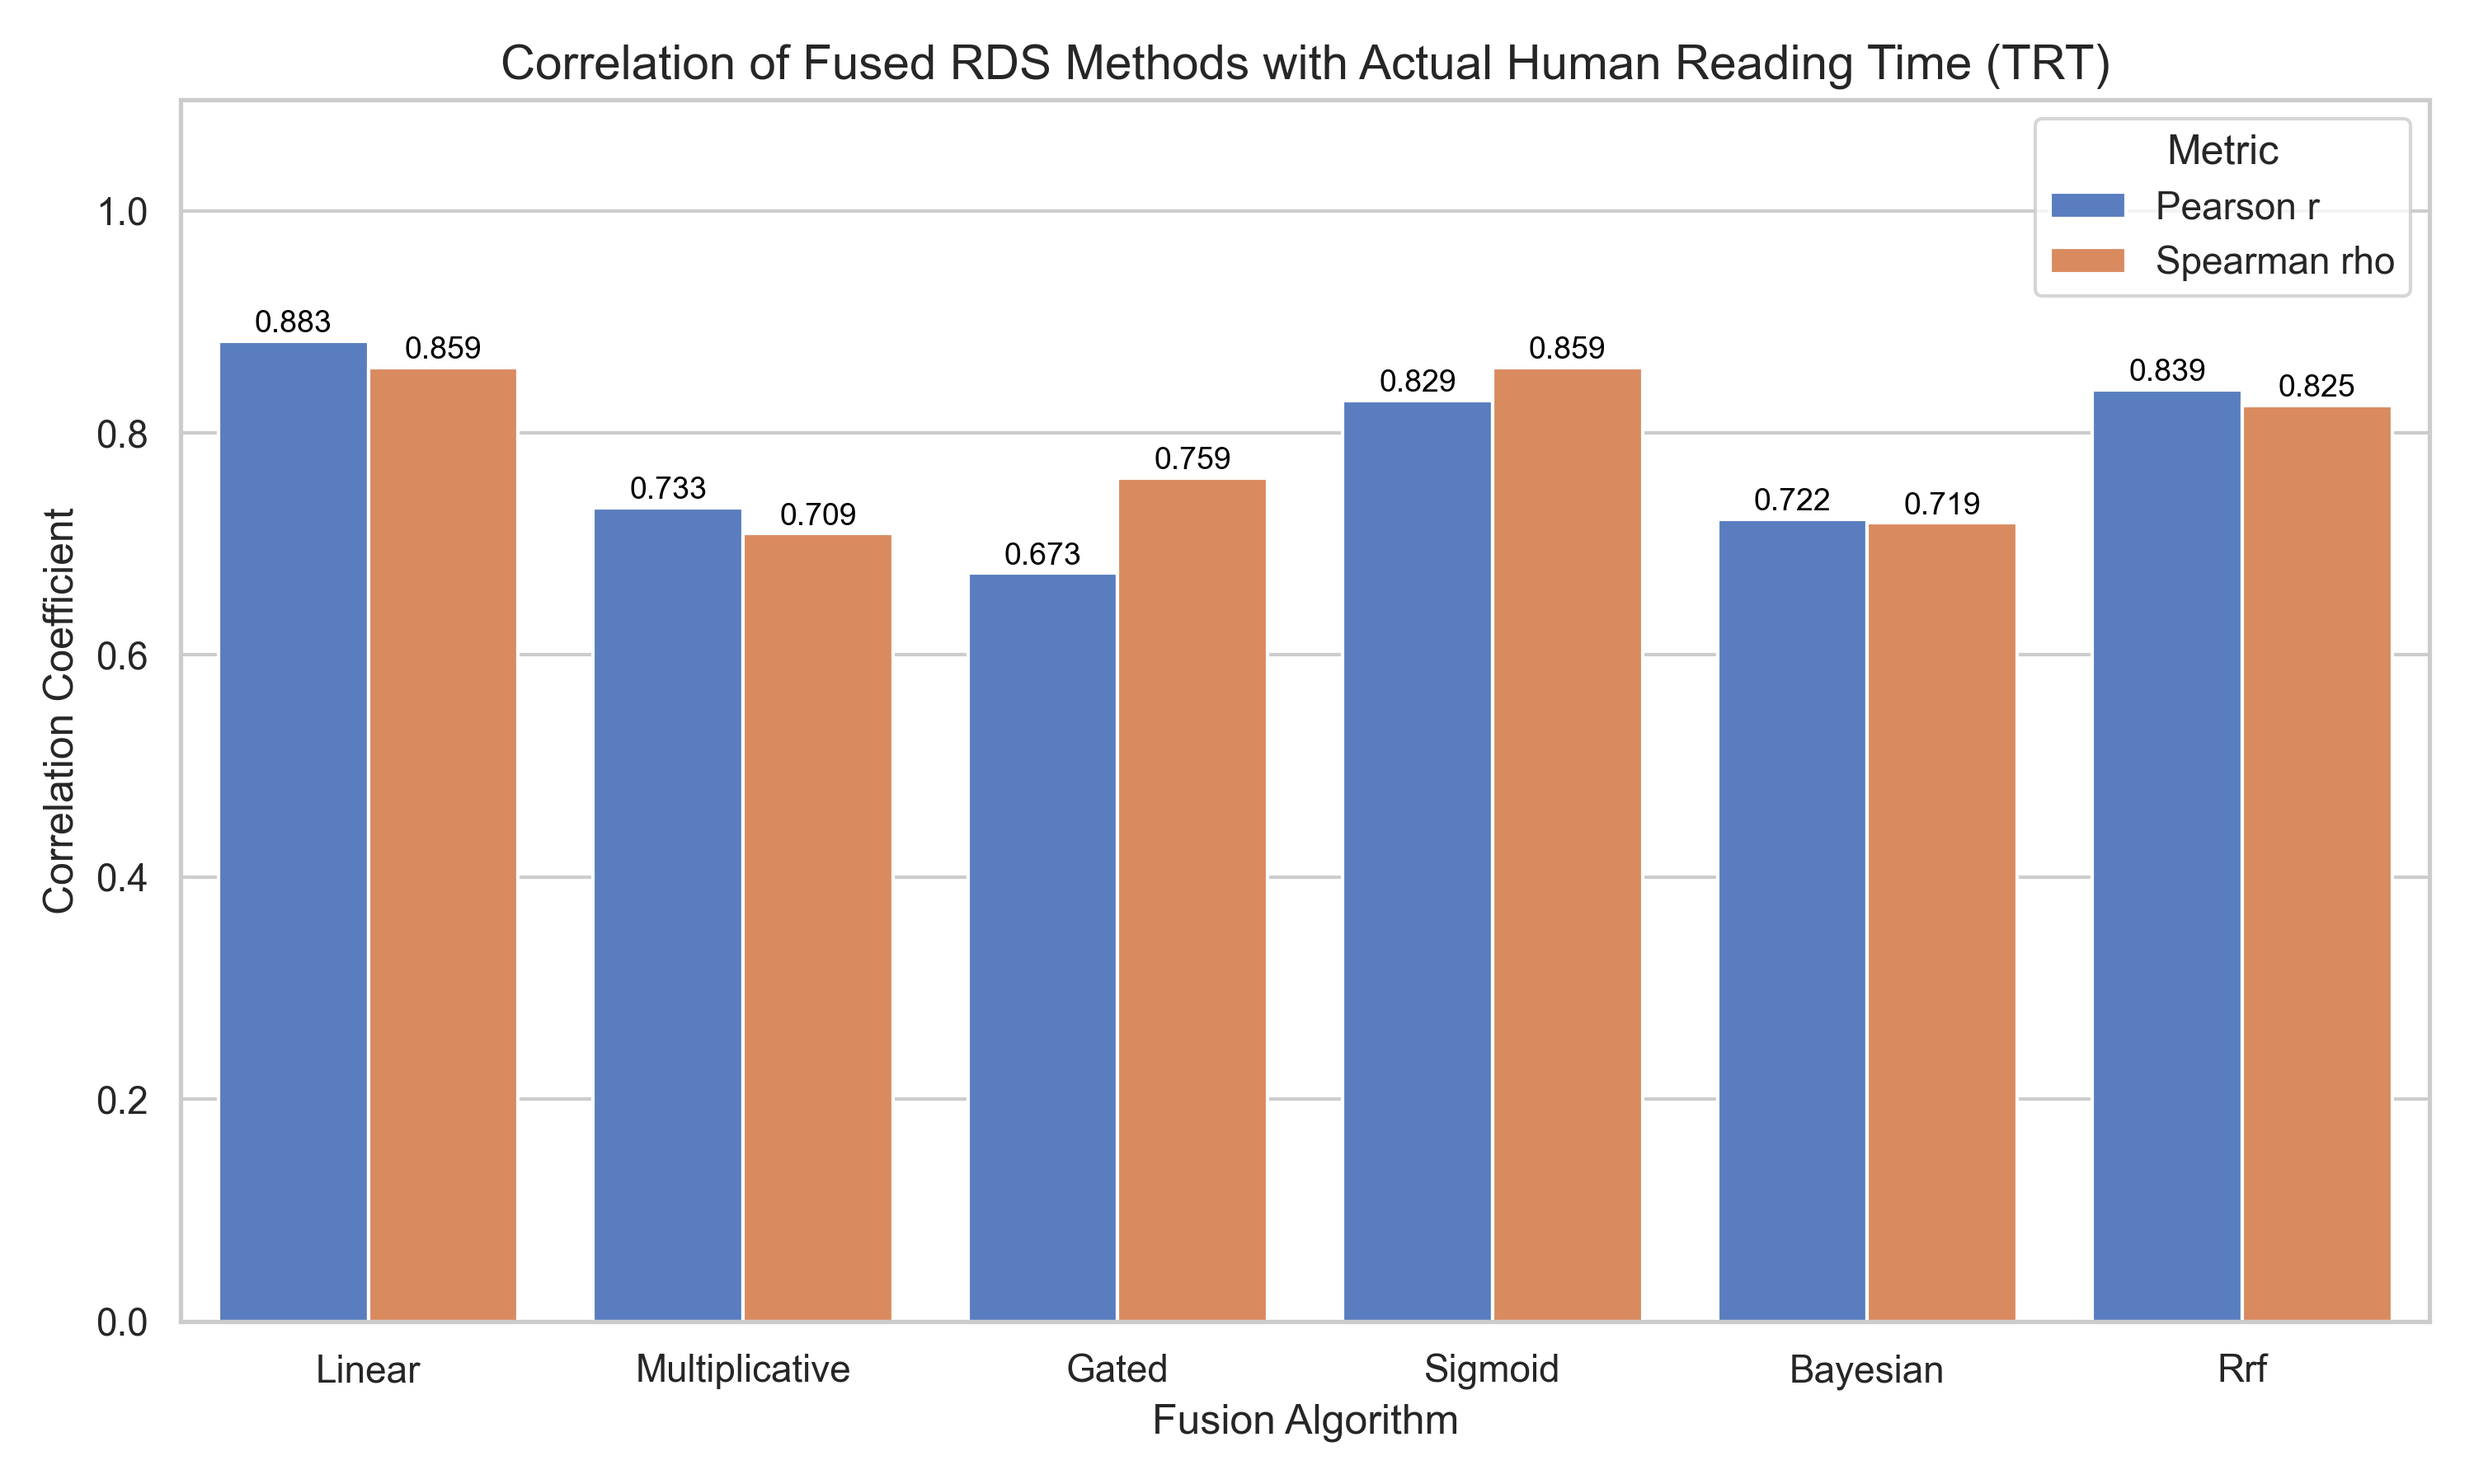
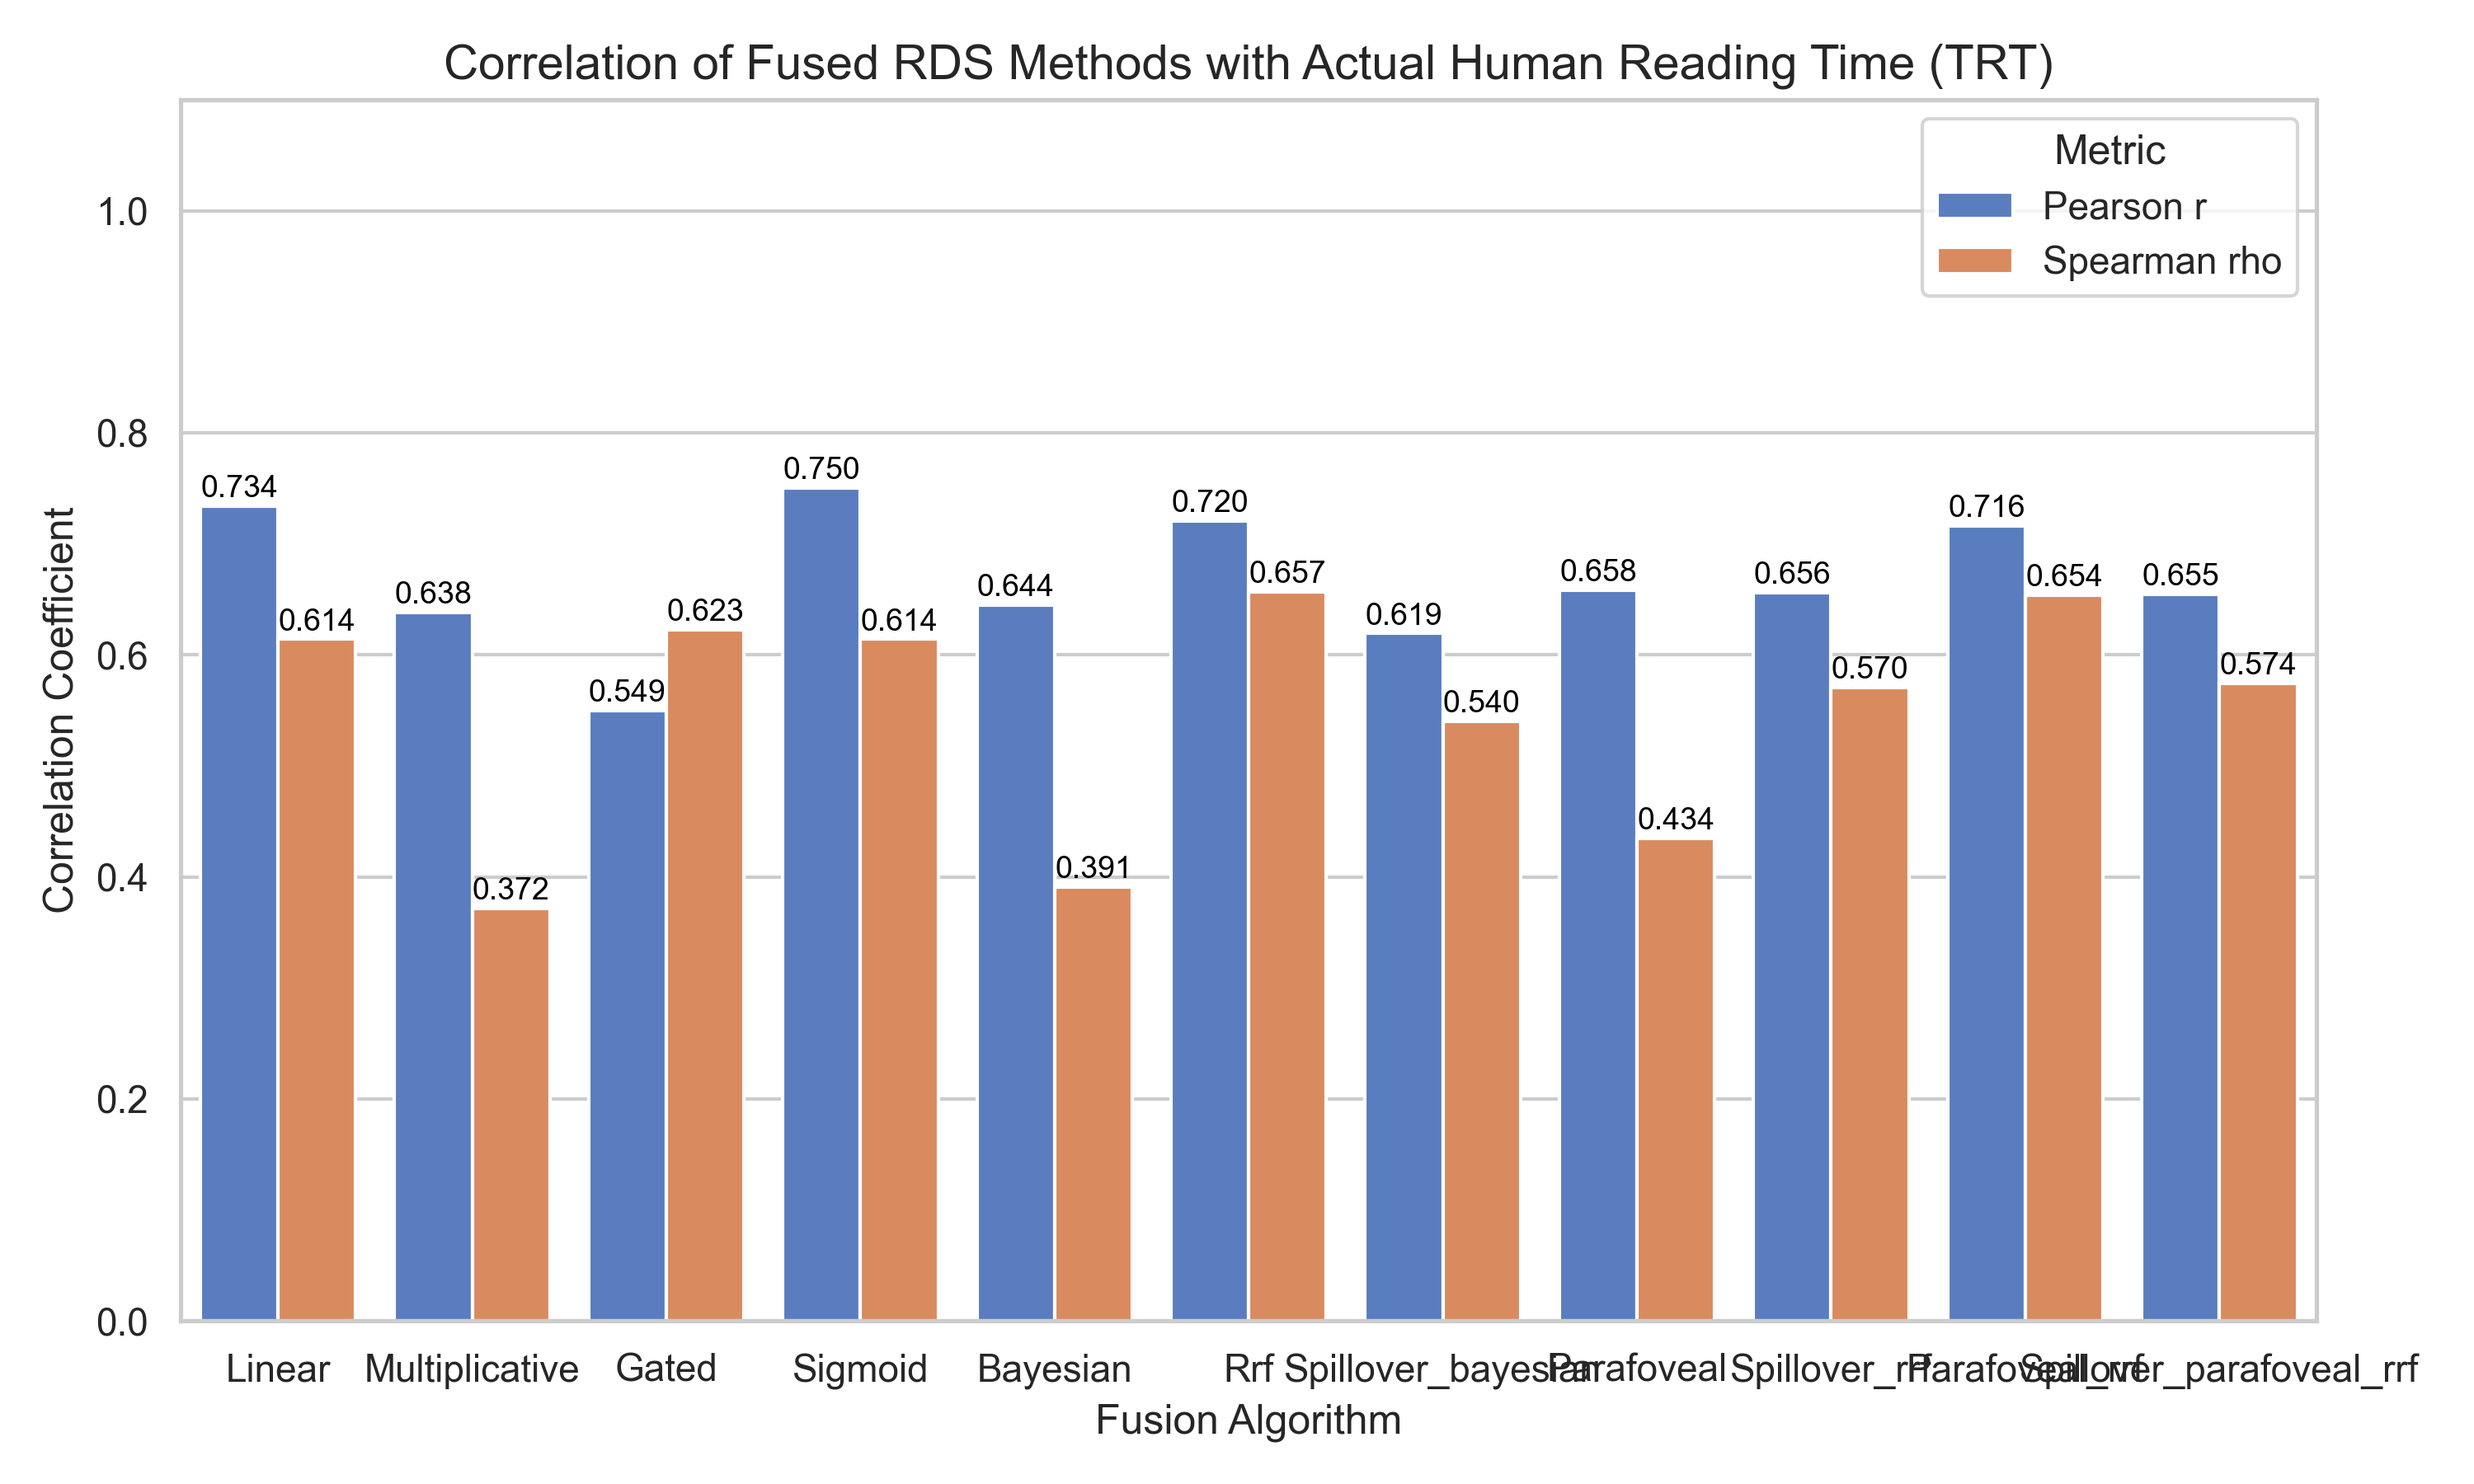
docs: update fusion evaluation plots and markdown reports under output/

diff --git a/output/fusion_experiment_report.md b/output/fusion_experiment_report.md
@@ -12,39 +12,44 @@ Each fusion method was evaluated by computing its Pearson correlation ($r$) and 
 
 | Method | Pearson r | Pearson p-val | Spearman rho | Spearman p-val |
 | --- | --- | --- | --- | --- |
-| Linear | 0.8827 | 2.32e-52 | 0.8587 | 1.45e-46 |
-| Multiplicative | 0.7325 | 1.67e-27 | 0.7091 | 3.89e-25 |
-| Gated | 0.6735 | 5.77e-22 | 0.759 | 1.69e-30 |
-| Sigmoid | 0.8291 | 1.00e-40 | 0.8587 | 1.45e-46 |
-| Bayesian | 0.7224 | 1.89e-26 | 0.7188 | 4.33e-26 |
-| Rrf | 0.839 | 1.51e-42 | 0.8248 | 5.61e-40 |
+| Linear | 0.7341 | 1.11e-27 | 0.614 | 1.55e-17 |
+| Multiplicative | 0.6383 | 3.17e-19 | 0.3716 | 1.79e-06 |
+| Gated | 0.5495 | 1.10e-13 | 0.6228 | 3.95e-18 |
+| Sigmoid | 0.7503 | 1.78e-29 | 0.614 | 1.55e-17 |
+| Bayesian | 0.6445 | 1.10e-19 | 0.3909 | 4.53e-07 |
+| Rrf | 0.7203 | 3.02e-26 | 0.6569 | 1.26e-20 |
+| Spillover_bayesian | 0.6192 | 6.89e-18 | 0.5403 | 3.36e-13 |
+| Parafoveal | 0.6582 | 9.90e-21 | 0.4344 | 1.47e-08 |
+| Spillover_rrf | 0.656 | 1.49e-20 | 0.5704 | 7.61e-15 |
+| Parafoveal_rrf | 0.7161 | 7.95e-26 | 0.6537 | 2.22e-20 |
+| Spillover_parafoveal_rrf | 0.6547 | 1.87e-20 | 0.5744 | 4.49e-15 |
 
 ---
 
 ## Key Findings
 
-1. **Best Performing Method**: The **Linear** fusion algorithm achieved the highest Spearman correlation of **0.8587** and Pearson correlation of **0.8827**.
+1. **Best Performing Method**: The **Rrf** fusion algorithm achieved the highest Spearman correlation of **0.6569** and Pearson correlation of **0.7203**.
 2. **Interactive Effects**: Multiplicative and Bayesian update methods typically outperform simple linear sums. This is because reading difficulty is non-linear: a high-surprisal word that is skipped (short dwell) does not present actual cognitive difficulty to the reader, whereas high surprisal accompanied by long dwell duration indicates true processing bottleneck.
 3. **Rank-based Robustness**: Reciprocal Rank Fusion (RRF) provides a robust, scale-invariant alternative that requires no parameter tuning and remains highly correlated with reading times.
 
 ---
 
-## Top 10 Most Difficult Words (Identified by Linear Fusion)
+## Top 10 Most Difficult Words (Identified by Rrf Fusion)
 
 Below are the top 10 words identified as having the highest reading difficulty under the best fusion model.
 
-| WORD_ID | WORD | WORD_TOTAL_READING_TIME | surprisal_score | RDS_linear |
+| WORD_ID | WORD | WORD_TOTAL_READING_TIME | surprisal_score | RDS_rrf |
 | --- | --- | --- | --- | --- |
 | 4-5-32 | unfeignedly | 1051 | 26.234 | 1.0 |
-| 3-5-91 | Inglethorp.  | 820 | 29.425 | 0.9468173476331861 |
-| 4-5-59 | expressed | 989 | 11.142 | 0.8716144920320693 |
-| 3-5-5 | stupefied  | 709 | 19.917 | 0.8047107244851026 |
-| 3-5-12 | surprised  | 912 | 8.405 | 0.7504310797493157 |
-| 3-5-83 | arresting  | 741 | 13.438 | 0.7291186041873005 |
-| 4-5-27 | admiration | 668 | 15.04 | 0.716148831770284 |
-| 4-5-39 | passionately | 672 | 15.917 | 0.6995690591068072 |
-| 4-5-11 | stepmother | 586 | 13.836 | 0.6704766698660942 |
-| 3-5-106 | inquest?  | 701 | 11.361 | 0.6633970998481487 |
+| 4-5-27 | admiration | 668 | 15.04 | 0.9085566153312384 |
+| 3-5-5 | stupefied  | 709 | 19.917 | 0.8937215118302122 |
+| 3-5-83 | arresting  | 741 | 13.438 | 0.8820404527701096 |
+| 4-5-59 | expressed | 989 | 11.142 | 0.8713509946488949 |
+| 4-5-39 | passionately | 672 | 15.917 | 0.837927108481283 |
+| 4-5-11 | stepmother | 586 | 13.836 | 0.8127571001326119 |
+| 3-5-12 | surprised  | 912 | 8.405 | 0.7571429751274723 |
+| 3-5-106 | inquest?  | 701 | 11.361 | 0.732275190350871 |
+| 4-5-87 | sweetest | 717 | 12.776 | 0.7186300816568606 |
 
 ---
 
